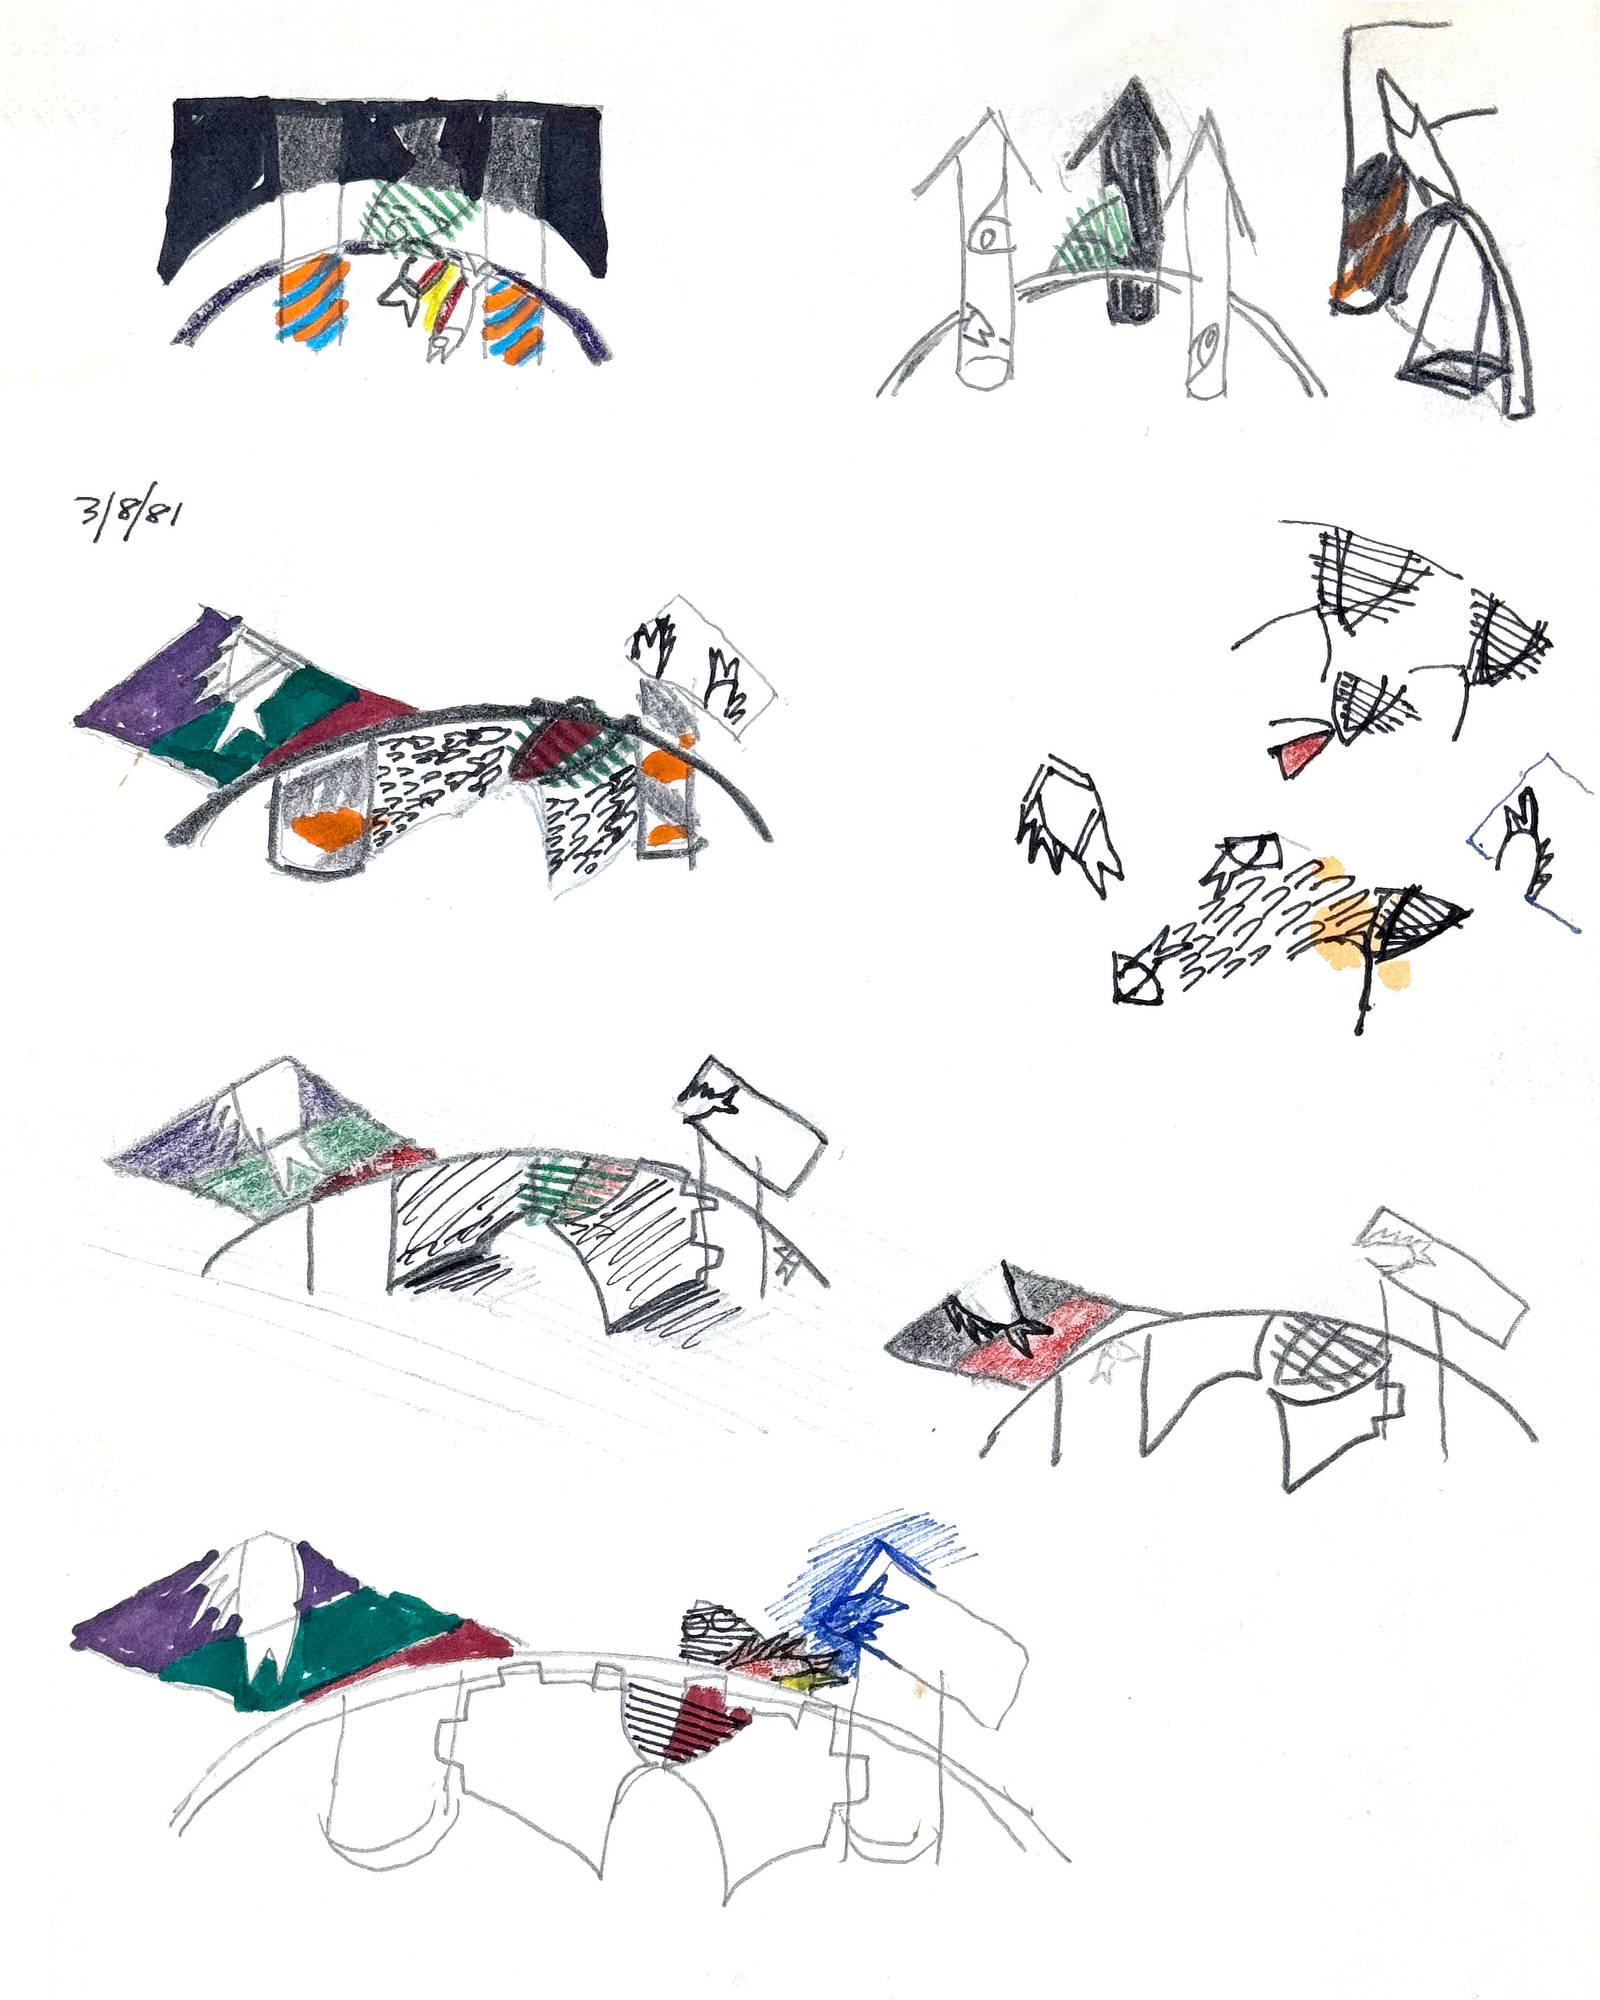
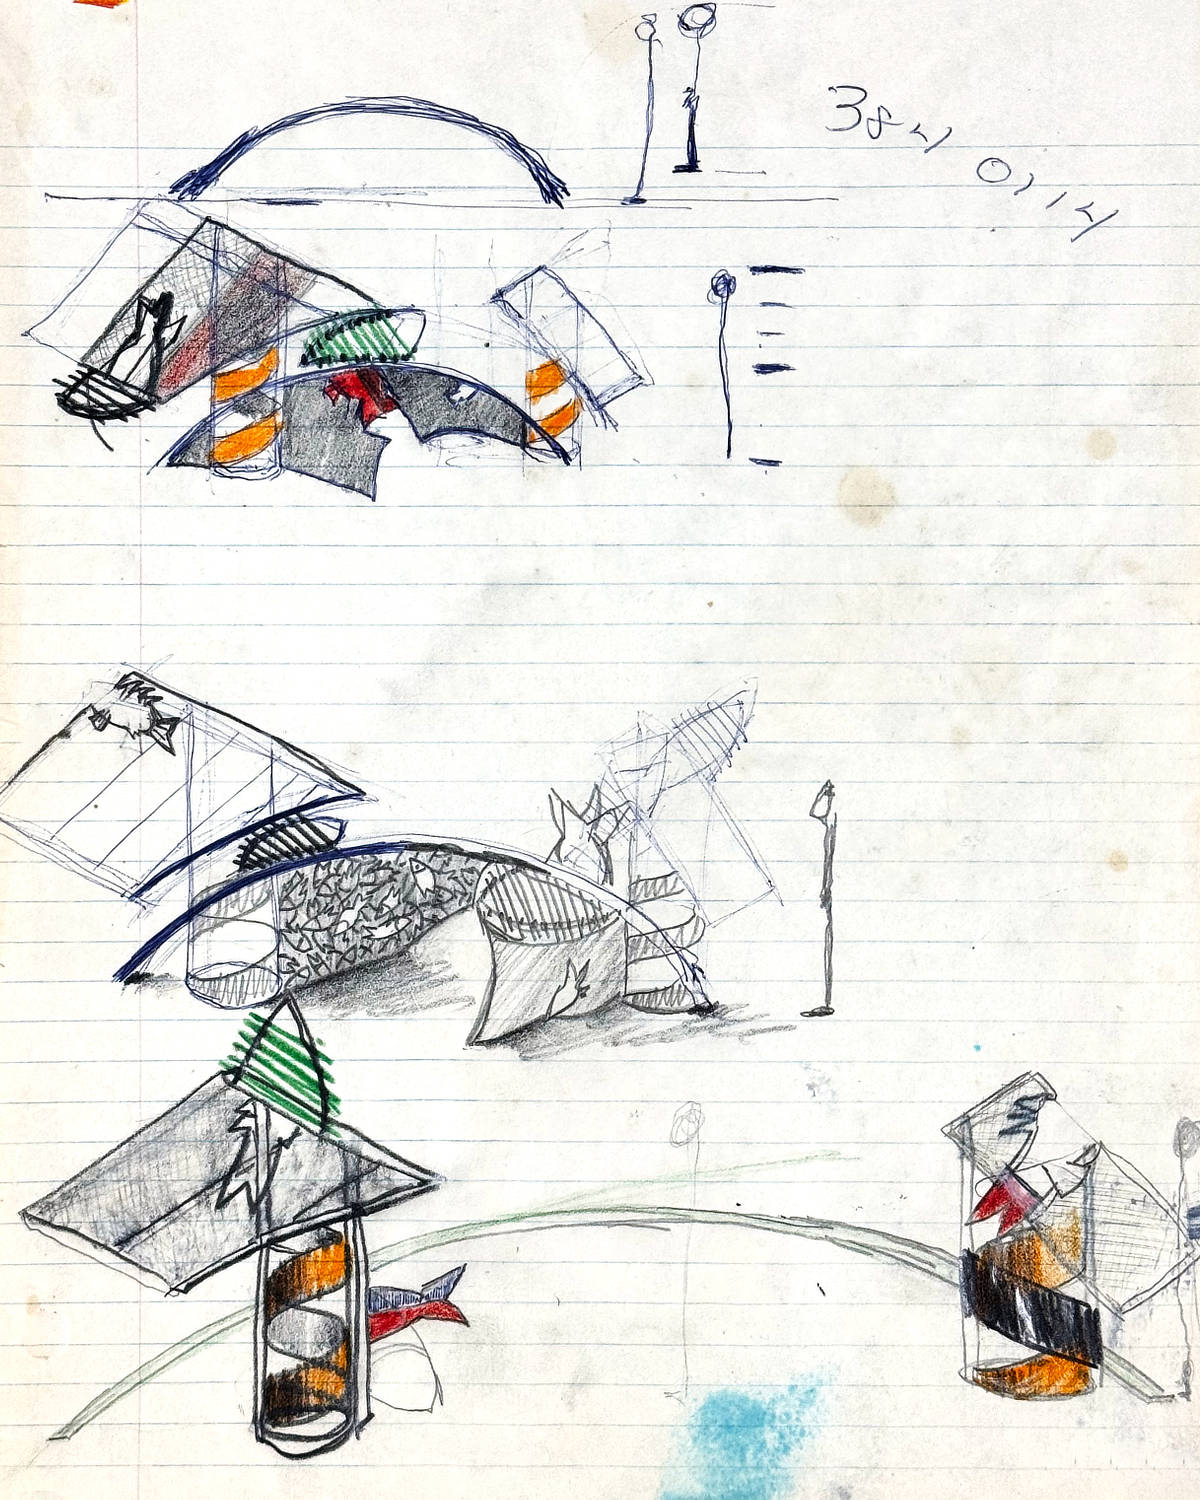
Add Sketchbooks categories and update Figure-in-Landscape title

diff --git a/sketchbooks.html b/sketchbooks.html
@@ -91,8 +91,35 @@
 
     <a class="category-card" href="sketch.html?series=figure-in-landscape-series">
       <img src="images/navigation-home/sketchbooks/figure-in-landscape-series-sketchbooks-navigation.jpg" alt="Figure in Landscape sketchbook studies">
-      <h2>Figure in Landscape Series</h2>
+      <h2>Figure-in-Landscape Series</h2>
     </a>
+
+    
+    <a class="category-card" href="sketch.html?series=maithuna">
+      <img src="images/navigation-home/sketchbooks/maithuna-series-sketchbooks-navigation.jpg" alt="Maithuna sketchbook studies">
+      <h2>Maithuna</h2>
+    </a>
+
+    <a class="category-card" href="sketch.html?series=narayana">
+      <img src="images/navigation-home/sketchbooks/narayana-series-sketchbooks-navigation.jpg" alt="Narayana sketchbook studies">
+      <h2>Narayana</h2>
+    </a>
+
+    <a class="category-card" href="sketch.html?series=separation-submersion">
+      <img src="images/navigation-home/sketchbooks/separation-submersion-sketchbooks-navigation.jpg" alt="Separation Submersion sketchbook studies">
+      <h2>Separation Submersion</h2>
+    </a>
+
+    <a class="category-card" href="sketch.html?series=the-pharaohs-nose">
+      <img src="images/navigation-home/sketchbooks/the-pharaohs-nose-sketchbooks-navigation.jpg" alt="The Pharaoh's Nose sketchbook studies">
+      <h2>The Pharaoh's Nose</h2>
+    </a>
+
+    <a class="category-card" href="sketch.html?series=other-studies">
+      <img src="images/navigation-home/sketchbooks/other-studies-sketchbooks-navigation.jpg" alt="Other Studies sketchbook drawings">
+      <h2>Other Studies</h2>
+    </a>
+
   </section>
 </main>
 </body>

diff --git a/sketch.html b/sketch.html
@@ -35,18 +35,25 @@
 </main>
 
 <script>
-  const seriesTitles = {
-    "brick-arch-series": "Brick Arch Series",
-    "reassembled-timber-series": "Reassembled Timber Series",
-    "that-change-series": "That Change Series",
-    "a-bride-for-becoming": "A Bride for Becoming",
-    "totem-series": "Totem Series",
-    "before-i-forget-series": "Before I Forget Series",
-    "go-like-that-series": "Go Like That Series",
-    "every-instant-series": "Every Instant Series",
-    "remember-include": "Remember Include",
-    "figure-in-landscape": "Figure in Landscape"
-  };
+  
+const seriesTitles = {
+  "brick-arch-series": "Brick Arch Series",
+  "reassembled-timber-series": "Reassembled Timber Series",
+  "that-change-series": "That Change Series",
+  "a-bride-for-becoming": "A Bride for Becoming",
+  "totem-series": "Totem Series",
+  "before-i-forget-series": "Before I Forget Series",
+  "go-like-that-series": "Go Like That Series",
+  "every-instant-series": "Every Instant Series",
+  "remember-include": "Remember Include",
+  "figure-in-landscape-series": "Figure-in-Landscape Series",
+  "maithuna": "Maithuna Series",
+  "narayana": "Narayana Series",
+  "separation-submersion": "Separation Submersion",
+  "the-pharaohs-nose": "The Pharaoh's Nose",
+  "other-studies": "Other Studies"
+};
+
 
   const params = new URLSearchParams(window.location.search);
   const seriesSlug = params.get("series");
